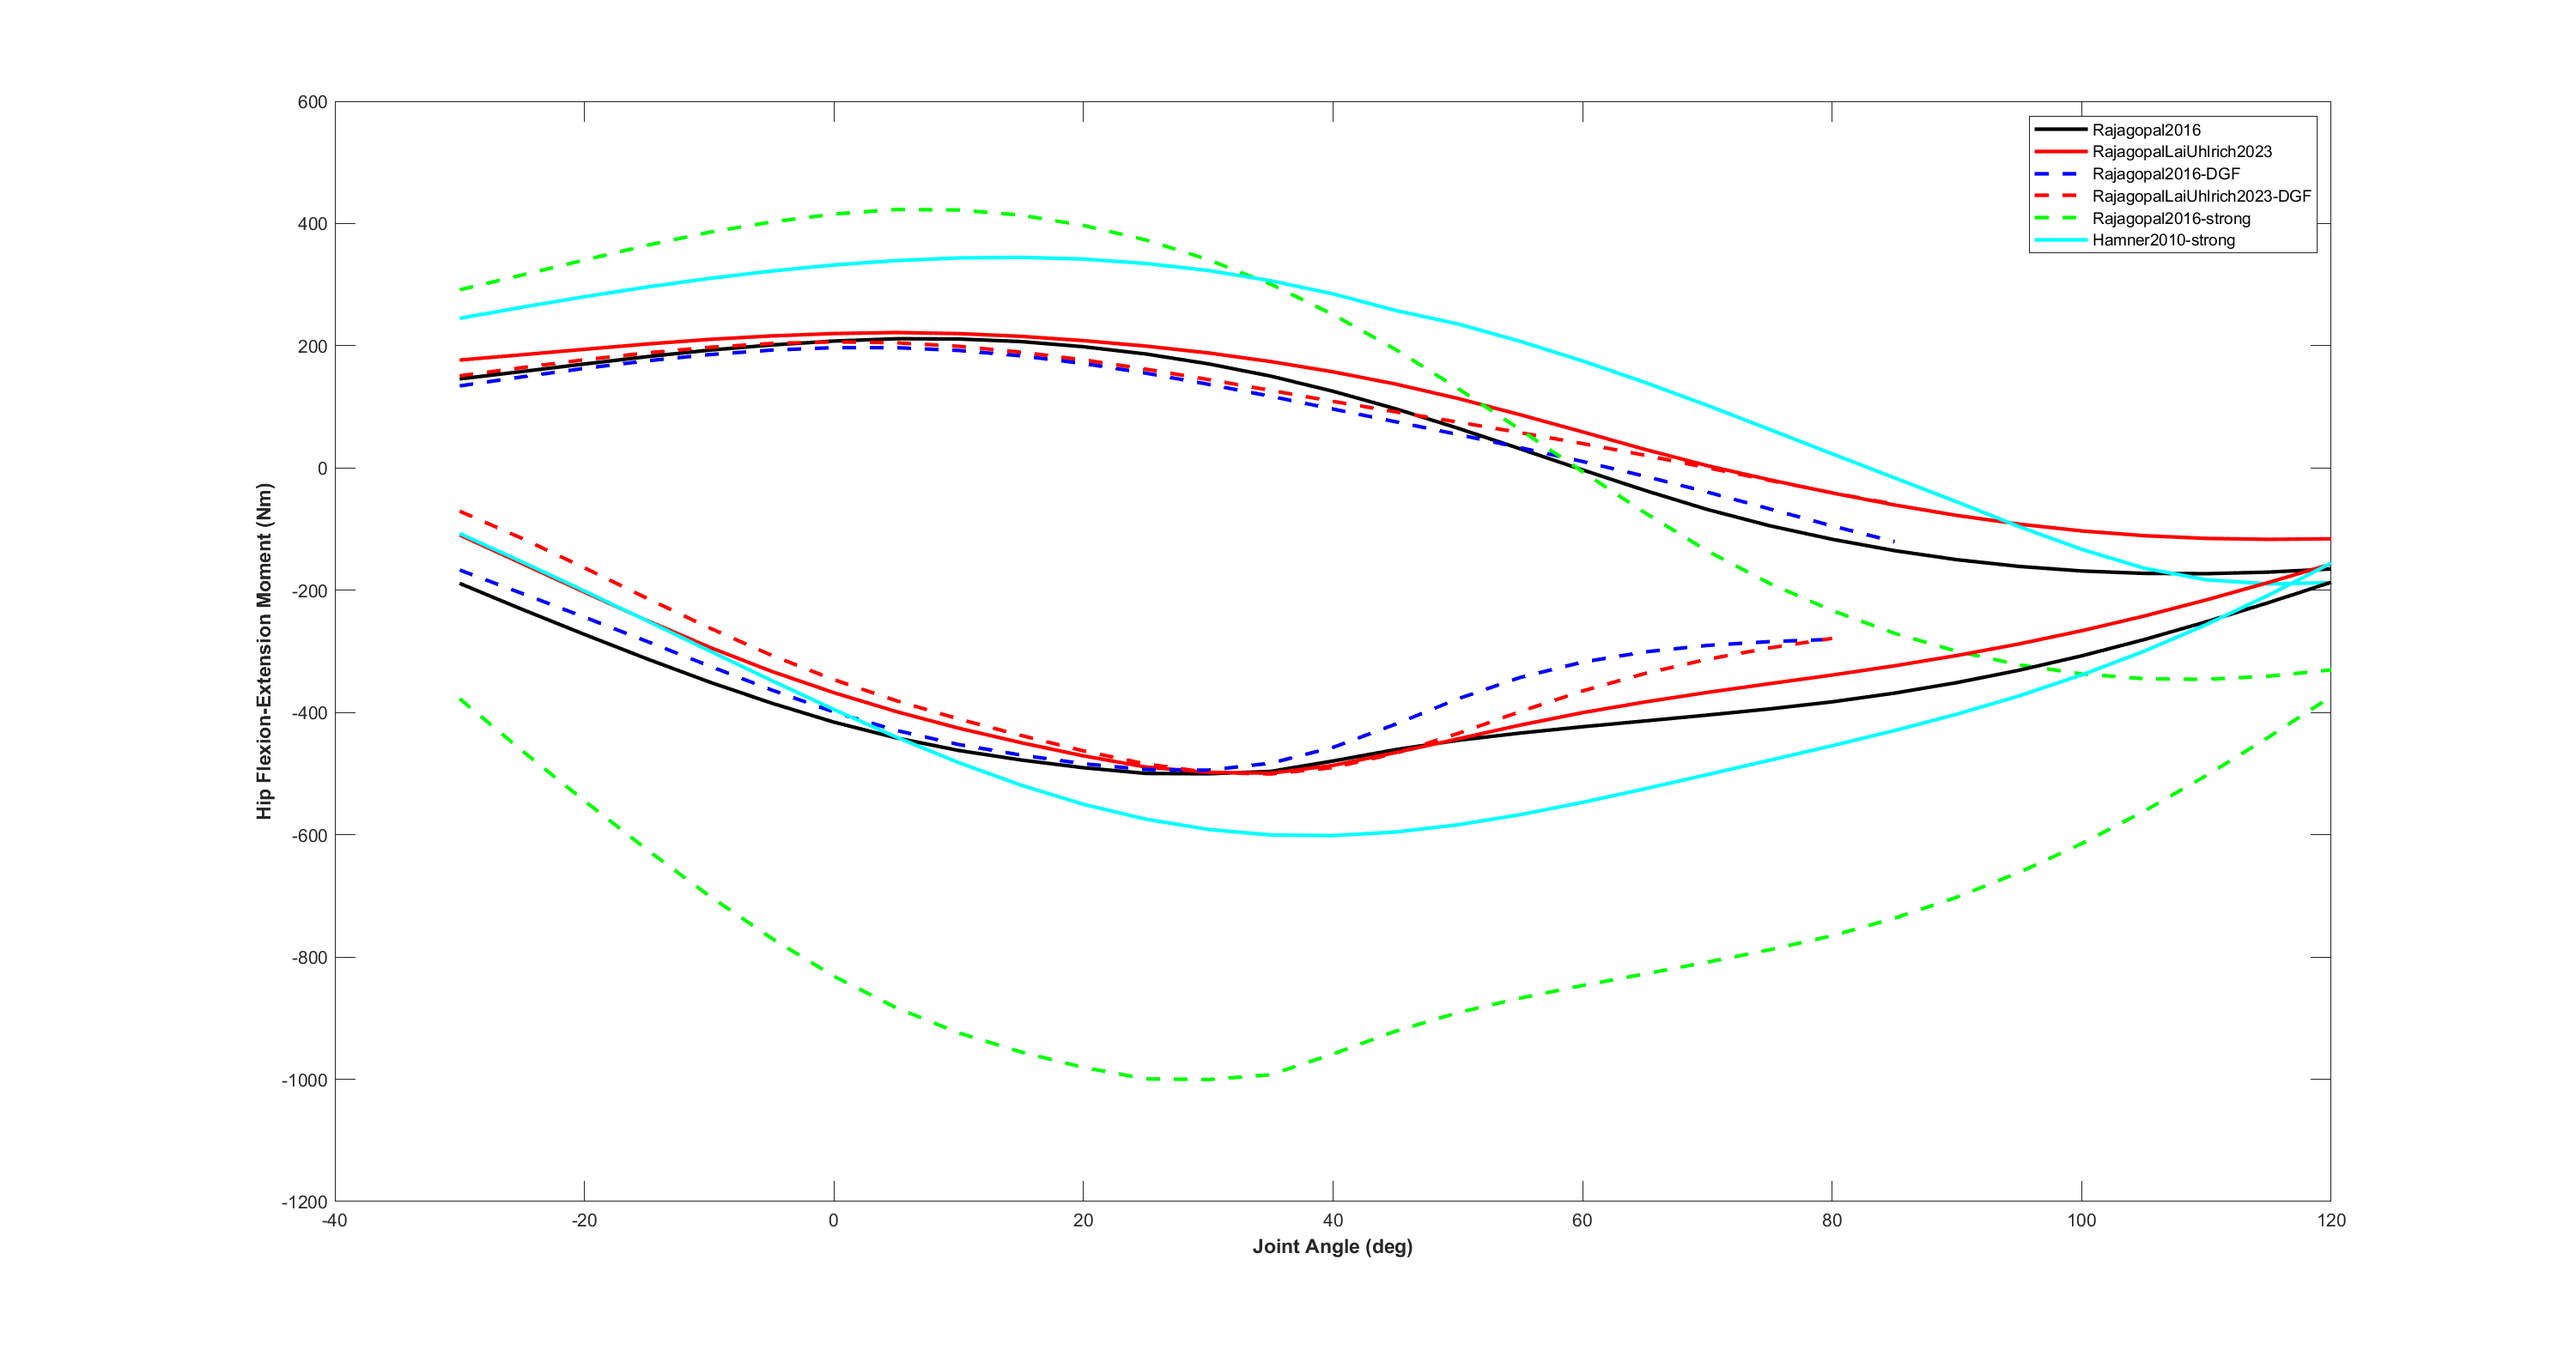
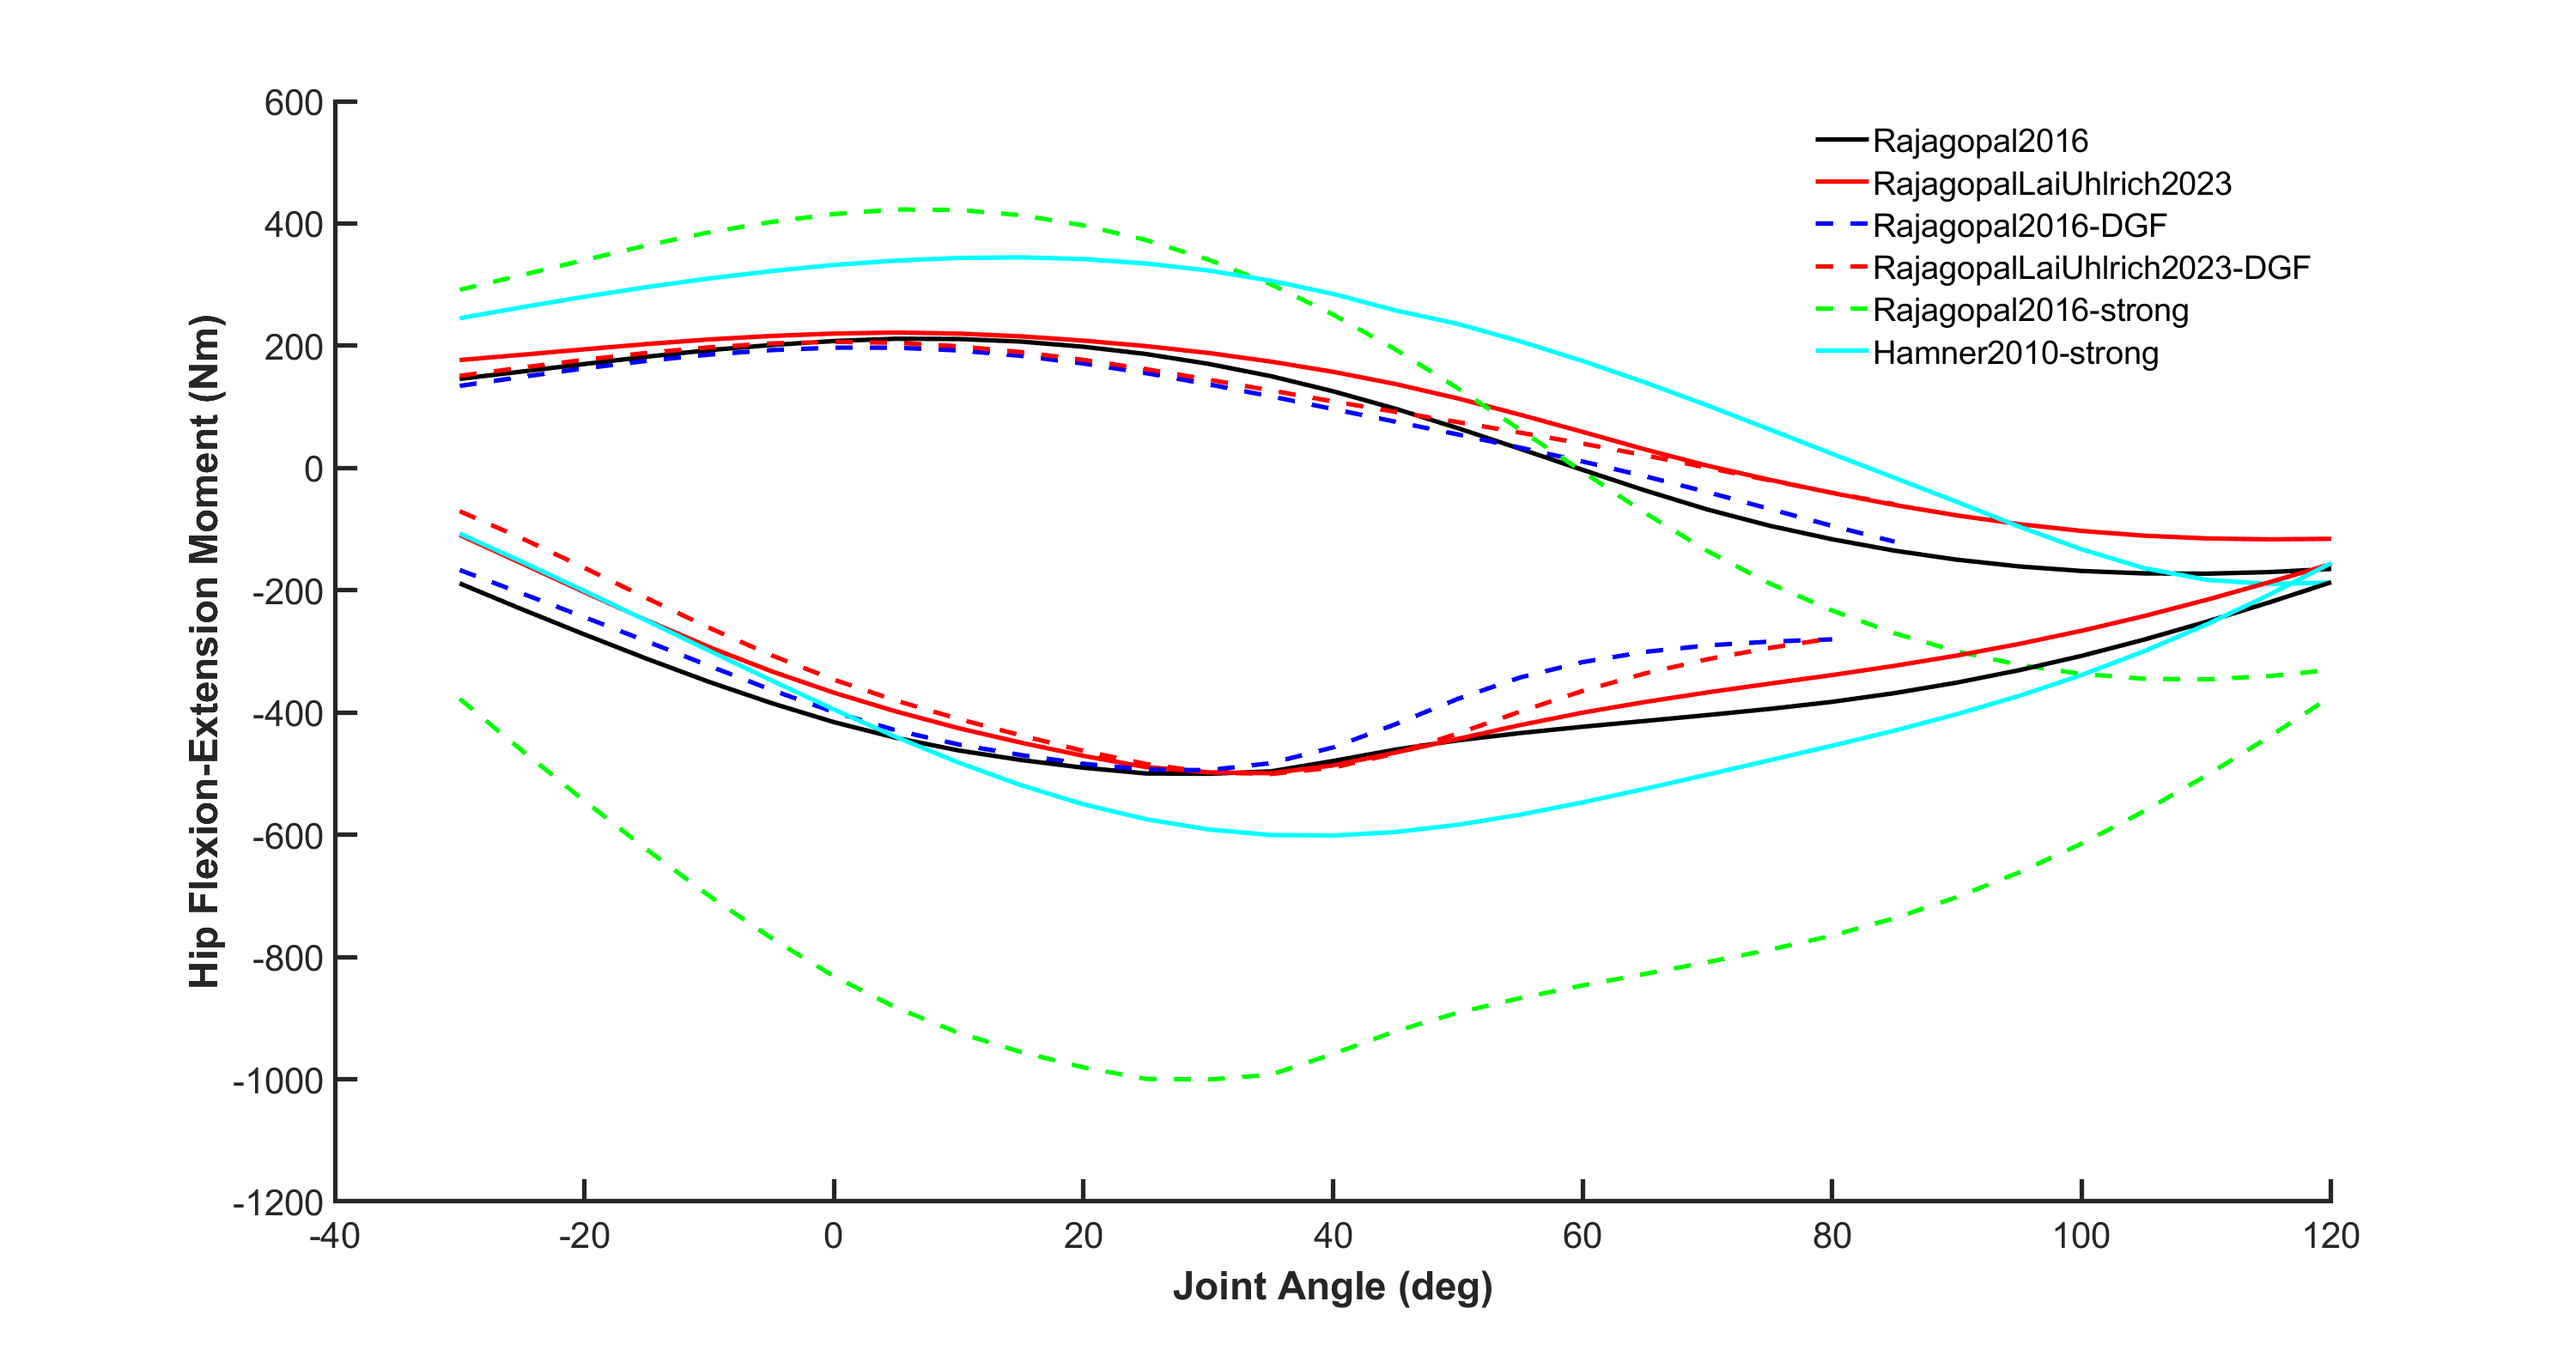
plots

diff --git a/Scripts/calculate_model_moments.m b/Scripts/calculate_model_moments.m
@@ -76,15 +76,18 @@ ankleFleMuscles_H = ["ext_dig_r","ext_hal_r","per_tert_r","tib_ant_r"];
 
 figure();
 set(gcf, 'Position', get(0, 'Screensize'));
-plot(passiveHipAngles_R,passiveHipMoments_R,'k','LineWidth',2);
+plot(passiveHipAngles_R,passiveHipMoments_R,'k','LineWidth',2.5);
 hold on
-plot(passiveHipAngles_RLU,passiveHipMoments_RLU,'r','LineWidth',2,'LineStyle','-');
-plot(passiveHipAngles_R_DGF,passiveHipMoments_R_DGF,'b','LineWidth',2,'LineStyle','--');
-plot(passiveHipAngles_RLU_DGF,passiveHipMoments_RLU_DGF,'r','LineWidth',2,'LineStyle','--');
-plot(passiveHipAngles_R_strong,passiveHipMoments_R_strong,'g','LineWidth',2,'LineStyle','--');
+plot(passiveHipAngles_RLU,passiveHipMoments_RLU,'r','LineWidth',2.5,'LineStyle','-');
+plot(passiveHipAngles_R_DGF,passiveHipMoments_R_DGF,'b','LineWidth',2.5,'LineStyle','--');
+plot(passiveHipAngles_RLU_DGF,passiveHipMoments_RLU_DGF,'r','LineWidth',2.5,'LineStyle','--');
+plot(passiveHipAngles_R_strong,passiveHipMoments_R_strong,'g','LineWidth',2.5,'LineStyle','--');
 xlabel('Joint Angle (deg)',FontWeight='bold');
 ylabel('Passive Hip Flexion-Extension Moment (Nm)',FontWeight='bold');
-legend({'Rajagopal2016','RajagopalLaiUhlrich2023','Rajagopal2016-DGF','RajagopalLaiUhlrich2023-DGF','Rajagopal2016-strong'})
+legend({'Rajagopal2016','RajagopalLaiUhlrich2023','Rajagopal2016-DGF','RajagopalLaiUhlrich2023-DGF','Rajagopal2016-strong'},'Box','off')
+set(gca, 'FontSize', 20);
+set(gca, 'Box', 'off');
+set(gca, 'LineWidth', 2.5);
 
 if strcmp(save_plot,'Yes')
     filename = 'Plots/passive_hip_moments.png';
@@ -99,15 +102,18 @@ end
 
 figure;
 set(gcf, 'Position', get(0, 'Screensize'));
-plot(passiveKneeAngles_R,passiveKneeMoments_R,'k','LineWidth',2);
+plot(passiveKneeAngles_R,passiveKneeMoments_R,'k','LineWidth',2.5);
 hold on
-plot(passiveKneeAngles_RLU,passiveKneeMoments_RLU,'r','LineWidth',2,'LineStyle','-');
-plot(passiveKneeAngles_R_DGF,passiveKneeMoments_R_DGF,'b','LineWidth',2,'LineStyle','--');
-plot(passiveKneeAngles_RLU_DGF,passiveKneeMoments_RLU_DGF,'r','LineWidth',2,'LineStyle','--');
-plot(passiveKneeAngles_R_strong,passiveKneeMoments_R_strong,'g','LineWidth',2,'LineStyle','--');
+plot(passiveKneeAngles_RLU,passiveKneeMoments_RLU,'r','LineWidth',2.5,'LineStyle','-');
+plot(passiveKneeAngles_R_DGF,passiveKneeMoments_R_DGF,'b','LineWidth',2.5,'LineStyle','--');
+plot(passiveKneeAngles_RLU_DGF,passiveKneeMoments_RLU_DGF,'r','LineWidth',2.5,'LineStyle','--');
+plot(passiveKneeAngles_R_strong,passiveKneeMoments_R_strong,'g','LineWidth',2.5,'LineStyle','--');
 xlabel('Joint Angle (deg)',FontWeight='bold');
 ylabel('Passive Knee Flexion-Extension Moment (Nm)',FontWeight='bold');
-legend({'Rajagopal2016','RajagopalLaiUhlrich2023','Rajagopal2016-DGF','RajagopalLaiUhlrich2023-DGF','Rajagopal2016-strong'})
+legend({'Rajagopal2016','RajagopalLaiUhlrich2023','Rajagopal2016-DGF','RajagopalLaiUhlrich2023-DGF','Rajagopal2016-strong'},'Box','off')
+set(gca, 'FontSize', 20);
+set(gca, 'Box', 'off');
+set(gca, 'LineWidth', 2.5);
 
 if strcmp(save_plot,'Yes')
     filename = 'Plots/passive_knee_moments.png';
@@ -122,15 +128,18 @@ end
 
 figure;
 set(gcf, 'Position', get(0, 'Screensize'));
-plot(passiveAnkleAngles_R,passiveAnkleMoments_R,'k','LineWidth',2);
+plot(passiveAnkleAngles_R,passiveAnkleMoments_R,'k','LineWidth',2.5);
 hold on
-plot(passiveAnkleAngles_RLU,passiveAnkleMoments_RLU,'r','LineWidth',2,'LineStyle','-');
-plot(passiveAnkleAngles_R_DGF,passiveAnkleMoments_R_DGF,'b','LineWidth',2,'LineStyle','--');
-plot(passiveAnkleAngles_RLU_DGF,passiveAnkleMoments_RLU_DGF,'r','LineWidth',2,'LineStyle','--');
-plot(passiveAnkleAngles_R_strong,passiveAnkleMoments_R_strong,'g','LineWidth',2,'LineStyle','--');
+plot(passiveAnkleAngles_RLU,passiveAnkleMoments_RLU,'r','LineWidth',2.5,'LineStyle','-');
+plot(passiveAnkleAngles_R_DGF,passiveAnkleMoments_R_DGF,'b','LineWidth',2.5,'LineStyle','--');
+plot(passiveAnkleAngles_RLU_DGF,passiveAnkleMoments_RLU_DGF,'r','LineWidth',2.5,'LineStyle','--');
+plot(passiveAnkleAngles_R_strong,passiveAnkleMoments_R_strong,'g','LineWidth',2.5,'LineStyle','--');
 xlabel('Joint Angle (deg)',FontWeight='bold');
 ylabel('Passive Ankle Dorsiflexion-Plantarflexion Moment (Nm)',FontWeight='bold');
-legend({'Rajagopal2016','RajagopalLaiUhlrich2023','Rajagopal2016-DGF','RajagopalLaiUhlrich2023-DGF','Rajagopal2016-strong'})
+legend({'Rajagopal2016','RajagopalLaiUhlrich2023','Rajagopal2016-DGF','RajagopalLaiUhlrich2023-DGF','Rajagopal2016-strong'},'Box','off')
+set(gca, 'FontSize', 20);
+set(gca, 'Box', 'off');
+set(gca, 'LineWidth', 2.5);
 
 if strcmp(save_plot,'Yes')
     filename = 'Plots/passive_ankle_moments.png';
@@ -153,22 +162,25 @@ end
 
 figure;
 set(gcf, 'Position', get(0, 'Screensize'));
-plot(allHipFlexAngles_R,allHipFlexMoments_R,'k','LineWidth',2);
+plot(allHipFlexAngles_R,allHipFlexMoments_R,'k','LineWidth',2.5);
 hold on
-plot(allHipFlexAngles_RLU,allHipFlexMoments_RLU,'r','LineWidth',2,'LineStyle','-');
-plot(allHipFlexAngles_R_DGF,allHipFlexMoments_R_DGF,'b','LineWidth',2,'LineStyle','--');
-plot(allHipFlexAngles_RLU_DGF,allHipFlexMoments_RLU_DGF,'r','LineWidth',2,'LineStyle','--');
-plot(allHipFlexAngles_R_strong,allHipFlexMoments_R_strong,'g','LineWidth',2,'LineStyle','--');
-plot(allHipFlexAngles_H_strong,allHipFlexMoments_H_strong,'c','LineWidth',2,'LineStyle','-');
-plot(allHipExtAngles_R,allHipExtMoments_R,'k','LineWidth',2);
-plot(allHipExtAngles_RLU,allHipExtMoments_RLU,'r','LineWidth',2,'LineStyle','-');
-plot(allHipExtAngles_R_DGF,allHipExtMoments_R_DGF,'b','LineWidth',2,'LineStyle','--');
-plot(allHipExtAngles_RLU_DGF,allHipExtMoments_RLU_DGF,'r','LineWidth',2,'LineStyle','--');
-plot(allHipExtAngles_R_strong,allHipExtMoments_R_strong,'g','LineWidth',2,'LineStyle','--');
-plot(allHipExtAngles_H_strong,allHipExtMoments_H_strong,'c','LineWidth',2,'LineStyle','-');
+plot(allHipFlexAngles_RLU,allHipFlexMoments_RLU,'r','LineWidth',2.5,'LineStyle','-');
+plot(allHipFlexAngles_R_DGF,allHipFlexMoments_R_DGF,'b','LineWidth',2.5,'LineStyle','--');
+plot(allHipFlexAngles_RLU_DGF,allHipFlexMoments_RLU_DGF,'r','LineWidth',2.5,'LineStyle','--');
+plot(allHipFlexAngles_R_strong,allHipFlexMoments_R_strong,'g','LineWidth',2.5,'LineStyle','--');
+plot(allHipFlexAngles_H_strong,allHipFlexMoments_H_strong,'c','LineWidth',2.5,'LineStyle','-');
+plot(allHipExtAngles_R,allHipExtMoments_R,'k','LineWidth',2.5);
+plot(allHipExtAngles_RLU,allHipExtMoments_RLU,'r','LineWidth',2.5,'LineStyle','-');
+plot(allHipExtAngles_R_DGF,allHipExtMoments_R_DGF,'b','LineWidth',2.5,'LineStyle','--');
+plot(allHipExtAngles_RLU_DGF,allHipExtMoments_RLU_DGF,'r','LineWidth',2.5,'LineStyle','--');
+plot(allHipExtAngles_R_strong,allHipExtMoments_R_strong,'g','LineWidth',2.5,'LineStyle','--');
+plot(allHipExtAngles_H_strong,allHipExtMoments_H_strong,'c','LineWidth',2.5,'LineStyle','-');
 xlabel('Joint Angle (deg)',FontWeight='bold');
 ylabel('Hip Flexion-Extension Moment (Nm)',FontWeight='bold');
-legend({'Rajagopal2016','RajagopalLaiUhlrich2023','Rajagopal2016-DGF','RajagopalLaiUhlrich2023-DGF','Rajagopal2016-strong','Hamner2010-strong'})
+legend({'Rajagopal2016','RajagopalLaiUhlrich2023','Rajagopal2016-DGF','RajagopalLaiUhlrich2023-DGF','Rajagopal2016-strong','Hamner2010-strong'},'Box','off')
+set(gca, 'FontSize', 20);
+set(gca, 'Box', 'off');
+set(gca, 'LineWidth', 2.5);
 
 if strcmp(save_plot,'Yes')
     filename = 'Plots/active_passive_hip_moments.png';
@@ -191,22 +203,25 @@ end
 
 figure;
 set(gcf, 'Position', get(0, 'Screensize'));
-plot(allKneeFlexAngles_R,allKneeFlexMoments_R,'k','LineWidth',2);
+plot(allKneeFlexAngles_R,allKneeFlexMoments_R,'k','LineWidth',2.5);
 hold on
-plot(allKneeFlexAngles_RLU,allKneeFlexMoments_RLU,'r','LineWidth',2,'LineStyle','-');
-plot(allKneeFlexAngles_R_DGF,allKneeFlexMoments_R_DGF,'b','LineWidth',2,'LineStyle','--');
-plot(allKneeFlexAngles_RLU_DGF,allKneeFlexMoments_RLU_DGF,'r','LineWidth',2,'LineStyle','--');
-plot(allKneeFlexAngles_R_strong,allKneeFlexMoments_R_strong,'g','LineWidth',2,'LineStyle','--');
-plot(-allKneeFlexAngles_H_strong,allKneeFlexMoments_H_strong,'c','LineWidth',2,'LineStyle','-');
-plot(allKneeExtAngles_R,allKneeExtMoments_R,'k','LineWidth',2);
-plot(allKneeExtAngles_RLU,allKneeExtMoments_RLU,'r','LineWidth',2,'LineStyle','-');
-plot(allKneeExtAngles_R_DGF,allKneeExtMoments_R_DGF,'b','LineWidth',2,'LineStyle','--');
-plot(allKneeExtAngles_RLU_DGF,allKneeExtMoments_RLU_DGF,'r','LineWidth',2,'LineStyle','--');
-plot(allKneeExtAngles_R_strong,allKneeExtMoments_R_strong,'g','LineWidth',2,'LineStyle','--');
-plot(-allKneeExtAngles_H_strong,allKneeExtMoments_H_strong,'c','LineWidth',2,'LineStyle','-');
+plot(allKneeFlexAngles_RLU,allKneeFlexMoments_RLU,'r','LineWidth',2.5,'LineStyle','-');
+plot(allKneeFlexAngles_R_DGF,allKneeFlexMoments_R_DGF,'b','LineWidth',2.5,'LineStyle','--');
+plot(allKneeFlexAngles_RLU_DGF,allKneeFlexMoments_RLU_DGF,'r','LineWidth',2.5,'LineStyle','--');
+plot(allKneeFlexAngles_R_strong,allKneeFlexMoments_R_strong,'g','LineWidth',2.5,'LineStyle','--');
+plot(-allKneeFlexAngles_H_strong,allKneeFlexMoments_H_strong,'c','LineWidth',2.5,'LineStyle','-');
+plot(allKneeExtAngles_R,allKneeExtMoments_R,'k','LineWidth',2.5);
+plot(allKneeExtAngles_RLU,allKneeExtMoments_RLU,'r','LineWidth',2.5,'LineStyle','-');
+plot(allKneeExtAngles_R_DGF,allKneeExtMoments_R_DGF,'b','LineWidth',2.5,'LineStyle','--');
+plot(allKneeExtAngles_RLU_DGF,allKneeExtMoments_RLU_DGF,'r','LineWidth',2.5,'LineStyle','--');
+plot(allKneeExtAngles_R_strong,allKneeExtMoments_R_strong,'g','LineWidth',2.5,'LineStyle','--');
+plot(-allKneeExtAngles_H_strong,allKneeExtMoments_H_strong,'c','LineWidth',2.5,'LineStyle','-');
 xlabel('Joint Angle (deg)',FontWeight='bold');
 ylabel('Knee Flexion-Extension Moment (Nm)',FontWeight='bold');
-legend({'Rajagopal2016','RajagopalLaiUhlrich2023','Rajagopal2016-DGF','RajagopalLaiUhlrich2023-DGF','Rajagopal2016-strong','Hamner2010-strong'})
+legend({'Rajagopal2016','RajagopalLaiUhlrich2023','Rajagopal2016-DGF','RajagopalLaiUhlrich2023-DGF','Rajagopal2016-strong','Hamner2010-strong'},'Box','off')
+set(gca, 'FontSize', 20);
+set(gca, 'Box', 'off');
+set(gca, 'LineWidth', 2.5);
 
 if strcmp(save_plot,'Yes')
     filename = 'Plots/active_passive_knee_moments.png';
@@ -229,22 +244,25 @@ end
 
 figure;
 set(gcf, 'Position', get(0, 'Screensize'));
-plot(allAnkleFlexAngles_R,allAnkleFlexMoments_R,'k','LineWidth',2);
+plot(allAnkleFlexAngles_R,allAnkleFlexMoments_R,'k','LineWidth',2.5);
 hold on
-plot(allAnkleFlexAngles_RLU,allAnkleFlexMoments_RLU,'r','LineWidth',2,'LineStyle','-');
-plot(allAnkleFlexAngles_R_DGF,allAnkleFlexMoments_R_DGF,'b','LineWidth',2,'LineStyle','--');
-plot(allAnkleFlexAngles_RLU_DGF,allAnkleFlexMoments_RLU_DGF,'r','LineWidth',2,'LineStyle','--');
-plot(allAnkleFlexAngles_R_strong,allAnkleFlexMoments_R_strong,'g','LineWidth',2,'LineStyle','--');
-plot(allAnkleFlexAngles_H_strong,allAnkleFlexMoments_H_strong,'c','LineWidth',2,'LineStyle','-');
-plot(allAnkleExtAngles_R,allAnkleExtMoments_R,'k','LineWidth',2);
-plot(allAnkleExtAngles_RLU,allAnkleExtMoments_RLU,'r','LineWidth',2,'LineStyle','-');
-plot(allAnkleExtAngles_R_DGF,allAnkleExtMoments_R_DGF,'b','LineWidth',2,'LineStyle','--');
-plot(allAnkleExtAngles_RLU_DGF,allAnkleExtMoments_RLU_DGF,'r','LineWidth',2,'LineStyle','--');
-plot(allAnkleExtAngles_R_strong,allAnkleExtMoments_R_strong,'g','LineWidth',2,'LineStyle','--');
-plot(allAnkleExtAngles_H_strong,allAnkleExtMoments_H_strong,'c','LineWidth',2,'LineStyle','-');
+plot(allAnkleFlexAngles_RLU,allAnkleFlexMoments_RLU,'r','LineWidth',2.5,'LineStyle','-');
+plot(allAnkleFlexAngles_R_DGF,allAnkleFlexMoments_R_DGF,'b','LineWidth',2.5,'LineStyle','--');
+plot(allAnkleFlexAngles_RLU_DGF,allAnkleFlexMoments_RLU_DGF,'r','LineWidth',2.5,'LineStyle','--');
+plot(allAnkleFlexAngles_R_strong,allAnkleFlexMoments_R_strong,'g','LineWidth',2.5,'LineStyle','--');
+plot(allAnkleFlexAngles_H_strong,allAnkleFlexMoments_H_strong,'c','LineWidth',2.5,'LineStyle','-');
+plot(allAnkleExtAngles_R,allAnkleExtMoments_R,'k','LineWidth',2.5);
+plot(allAnkleExtAngles_RLU,allAnkleExtMoments_RLU,'r','LineWidth',2.5,'LineStyle','-');
+plot(allAnkleExtAngles_R_DGF,allAnkleExtMoments_R_DGF,'b','LineWidth',2.5,'LineStyle','--');
+plot(allAnkleExtAngles_RLU_DGF,allAnkleExtMoments_RLU_DGF,'r','LineWidth',2.5,'LineStyle','--');
+plot(allAnkleExtAngles_R_strong,allAnkleExtMoments_R_strong,'g','LineWidth',2.5,'LineStyle','--');
+plot(allAnkleExtAngles_H_strong,allAnkleExtMoments_H_strong,'c','LineWidth',2.5,'LineStyle','-');
 xlabel('Joint Angle (deg)',FontWeight='bold');
 ylabel('Ankle Dorsiflexion-Plantarflexion Moment (Nm)',FontWeight='bold');
-legend({'Rajagopal2016','RajagopalLaiUhlrich2023','Rajagopal2016-DGF','RajagopalLaiUhlrich2023-DGF','Rajagopal2016-strong','Hamner2010-strong'})
+legend({'Rajagopal2016','RajagopalLaiUhlrich2023','Rajagopal2016-DGF','RajagopalLaiUhlrich2023-DGF','Rajagopal2016-strong','Hamner2010-strong'},'Box','off')
+set(gca, 'FontSize', 20);
+set(gca, 'Box', 'off');
+set(gca, 'LineWidth', 2.5);
 
 if strcmp(save_plot,'Yes')
     filename = 'Plots/active_passive_ankle_moments.png';
